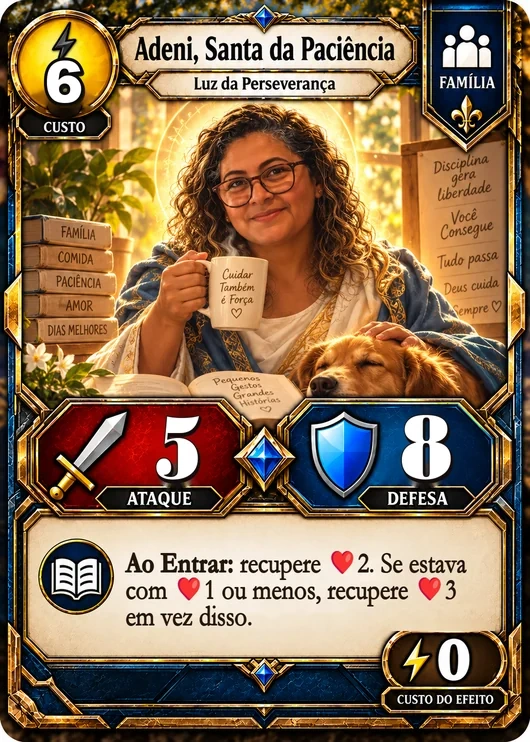
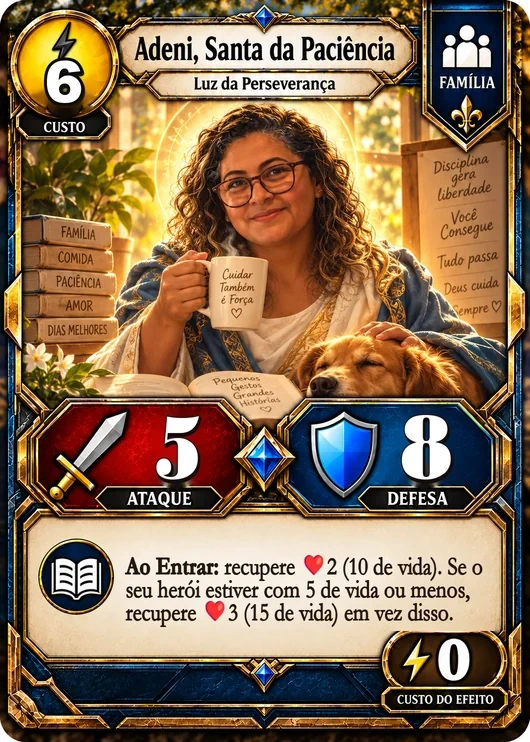
v94: teto de energia 20 e bonus de energia para o 2o jogador, Defensor -1 de dano, Adeni Santa

Changed region(s): [[0.2415, 0.7439, 0.9057, 0.8679]]

diff --git a/js/ui.js b/js/ui.js
@@ -443,13 +443,13 @@
       const f = Math.max(0, Math.min(1, (pl.life - i * K) / K));
       return `<i><s>❤</s><b style="width:${Math.round(f * 100)}%">❤</b></i>`;
     }).join('') + `<em class="lifenum">${pl.life}</em>`;
-    const nrg = Array.from({ length: G.ENERGY_MAX }, (_, i) => `<i class="${i < pl.energy ? 'on' : i < pl.maxE ? 'spent' : 'lock'}"></i>`).join('') + `<b>${pl.energy}/${Math.max(pl.maxE, pl.energy)}</b>`;
+    const nrg = Array.from({ length: Math.min(G.ENERGY_MAX, Math.max(10, pl.maxE, pl.energy)) }, (_, i) => `<i class="${i < pl.energy ? 'on' : i < pl.maxE ? 'spent' : 'lock'}"></i>`).join('') + `<b>${pl.energy}/${Math.max(pl.maxE, pl.energy)}</b>`;
     const avatar = (ctl.avatars && ctl.avatars[p]) || 'p01';
     const html = `<div class="plate ${turn ? 'turn' : ''}" data-plate="${p}">
       <div class="avatar" style="${avatarStyle(avatar)}"></div>
       <div class="pname">${esc(pl.name)}${p === me ? '<em>(você)</em>' : ''}</div>
       <div class="hearts" title="Vida">${hearts}</div>
-      <div class="energy" title="Energia: o máximo sobe 1 por turno (até ${G.ENERGY_MAX}) e recarrega todo turno">${nrg}</div>
+      <div class="energy" title="Energia: o máximo sobe 1 por turno (até ${G.ENERGY_MAX}) e recarrega todo turno. Quem joga em 2º tem ⚡+1 nos ${G.RULES.secondEnergyTurns} primeiros turnos.">${nrg}</div>
       <div class="meta"><span title="Cartas na mão">🂠 ${pl.hand.length}</span><span title="Descarte">🗑 ${pl.discard.length}</span></div>
     </div>`;
     const compactHtml = `<div class="plate ${turn ? 'turn' : ''}" data-plate="${p}">
@@ -1204,10 +1204,10 @@
     const m = UI.modal(`<h3>Regras rápidas</h3><div class="rules-doc">
       <h4>Objetivo</h4><p>Reduza a vida do adversário de <b>25 para 0</b>. (Nas cartas, 1 ❤ = 5 pontos de vida: "recupere ❤1" cura 5.)</p>
       <h4>Início</h4><p>Cada jogador começa com 25 de vida, 4 Personagens e 2 Suportes na mão (ninguém escolhe nem devolve cartas), todos baratos: custo até ⚡3. A partida começa sem Evento. Quem começa não compra no primeiro turno. No <b>primeiro turno de cada jogador só existe ⚡1</b> e nenhum efeito dá energia extra. Todo mundo começa com <b>pelo menos 2 Personagens de custo ⚡1</b> para jogar no primeiro turno. <b>As cartas vêm embaralhadas, mas só chegam cartas de até ⚡2 acima da sua energia:</b> cada carta comprada é a primeira do baralho cujo custo é no máximo a sua energia do turno + 2 (na mão inicial: até ⚡3). As caras só chegam quando você já está perto de poder jogá-las.</p>
-      <h4>Energia ⚡</h4><p>No 1º turno você tem <b>⚡1</b>, no 2º <b>⚡2</b>, e assim por diante até <b>⚡10</b>. A energia <b>enche de novo todo turno</b>; o que sobrar se perde. Gastando energia você joga <b>quantas cartas quiser</b>. Energia extra de efeitos vale só no turno e nunca passa de 10.</p>
+      <h4>Energia ⚡</h4><p>No 1º turno você tem <b>⚡1</b>, no 2º <b>⚡2</b>, e assim por diante até <b>⚡20</b>. A energia <b>enche de novo todo turno</b>; o que sobrar se perde. Gastando energia você joga <b>quantas cartas quiser</b>. Energia extra de efeitos vale só no turno e nunca passa de 20. <b>Quem joga em 2º tem ⚡+1 nos 5 primeiros turnos</b> dele (⚡2, ⚡3, ⚡4, ⚡5 e ⚡6), para compensar a vantagem de começar.</p>
       <h4>Campo</h4><table><tr><th>Zona</th><th>Limite</th><th>Função</th></tr>
       <tr><td>⚔ Ataque</td><td>3</td><td>Podem atacar (a partir do turno seguinte ao que entraram, exceto Ligeiros).</td></tr>
-      <tr><td>🛡 Defesa</td><td>3</td><td>Protegem a sua vida: enquanto existir um Defensor, o herói não pode ser atacado.</td></tr>
+      <tr><td>🛡 Defesa</td><td>3</td><td>Protegem a sua vida: enquanto existir um Defensor, o herói não pode ser atacado. <b>Todo Defensor sofre 1 de dano a menos</b> em cada ataque (mínimo 1).</td></tr>
       <tr><td>🤝 Apoio</td><td>2</td><td>Não atacam nem defendem. Só podem ser atacados quando o adversário não tem Defensores. Ativam efeitos 🤝.</td></tr>
       <tr><td>🛠 Suportes</td><td>2</td><td>Suportes Permanentes ficam aqui.</td></tr></table>
       <h4>Posição: espaços fixos</h4><p>Cada zona tem espaços fixos (esquerda, meio e direita). Ao jogar um Personagem, toque no <b>espaço</b> onde ele vai ficar; ele não muda de lugar sozinho. Vários efeitos usam a posição: o <b>vizinho</b> (espaço ao lado, na mesma zona) e a <b>frente</b> (um Defensor está "atrás" do atacante do mesmo espaço). <b>Mover</b> (⚡1) leva um Personagem a outro espaço livre, e <b>Trocar de lugar</b> (⚡2, uma vez por turno) troca dois Personagens seus de lugar. Quem foi movido ou trocado não ataca naquele turno.</p>
@@ -1218,7 +1218,7 @@
       <h4>Perks (Suportes Permanentes)</h4><p>Perks ocupam uma das 2 vagas 🛠, têm efeito passivo e <b>duram 3 turnos seus</b> (o ⏳ na carta mostra quantos faltam): <b>Torcida Organizada</b> (+1 de dano em todos os ataques), <b>Boleto Vencido</b> (+2 de dano no herói), <b>Fofoca do Churrasco</b> (compra 1 quando um Personagem seu cai), <b>Fiscal da Cerveja</b> (adversário perde ❤1 quando seu Personagem derrota outro), <b>Soneca Estratégica</b> (recupera ❤2 se ninguém atacou), <b>Bill</b> (compra extra), <b>Sofá</b> (Defensores sofrem 2 de dano a menos), <b>Cristal</b> (cada Personagem seu cura 2 de dano no início do seu turno) e <b>Jardim</b> (Personagens em Apoio ou Defesa curam 3 de dano no fim do seu turno).</p>
       <h4>Dicas de energia e custo</h4><p>As cartas custam de <b>⚡1 a ⚡10</b> (o número no selo dourado). Jogar cartas baratas cedo e guardar as fortes para depois é normal. Mover custa ⚡1, só vale uma vez por Personagem por turno, e <b>quem se moveu não ataca</b> naquele turno. Personagem recém-jogado também só ataca no turno seguinte. O dano que uma carta sofreu aparece em vermelho na defesa dela.</p>
       <h4>Atordoado</h4><p>Eventos (como o Sono Depois do Almoço) podem Atordoar: não ataca, não usa Ativável, não se move. Continua defendendo. Recupera no fim do próximo turno do dono.</p>
-      <h4>Limites</h4><p>Mão: 7 cartas · Energia: ⚡10 · Vida: 25 · Custo mínimo: ⚡1 · Descontos não se acumulam.</p>
+      <h4>Limites</h4><p>Mão: 7 cartas · Energia: até ⚡20 · Vida: 25 · Custo mínimo: ⚡1 · Descontos não se acumulam.</p>
       <h4>Eventos</h4><p>No máximo 1 Evento fica ativo e ele <b>troca sozinho a cada 3 rodadas</b> (o primeiro entra no fim da 3ª). Ninguém compra nem troca Eventos.</p>
       <h4>Série (melhor de 2 seguidas)</h4><p>Uma série é formada por várias partidas: <b>quem vencer 2 partidas seguidas leva a série</b>. A cada partida os lados trocam: quem começou agora joga em segundo, e vice-versa. Se cada um vencer uma, joga-se a próxima, até alguém vencer duas em sequência.</p>
       <h4>Cansaço</h4><p>Se a partida passar do <b>turno 80</b> (cerca de 40 rodadas), quem começa o turno perde <b>3 de vida</b> — assim nenhum empate dura para sempre.</p>

diff --git a/js/tutorial.js b/js/tutorial.js
@@ -58,7 +58,7 @@
         <li><b>JOGUE</b> o que quiser com a sua energia: Personagens, Suportes, mover (⚡1), habilidades Ativáveis e comprar Suporte (⚡1). <b>Sem limite de cartas</b>, só de energia!</li>
         <li><b>ATAQUE</b> com cada Personagem pronto.</li>
         <li><b>ENCERRE</b> o turno — ou <b>pule</b> se não tiver nada para jogar (o botão vira "Pular turno").</li></ol>
-        <p>⚡ <b>Energia que recarrega:</b> turno 1 = ⚡1, turno 2 = ⚡2... até ⚡10. Enche todo turno, e <b>o que sobrar se perde</b> — então vale gastar!</p>`,
+        <p>⚡ <b>Energia que recarrega:</b> turno 1 = ⚡1, turno 2 = ⚡2... até ⚡20. Enche todo turno, e <b>o que sobrar se perde</b> — então vale gastar! Quem joga em <b>2º</b> tem ⚡+1 nos 5 primeiros turnos.</p>`,
       vis: () => `<div class="flow"><div class="step"><span>⚡1</span><b>Turno 1</b>1 de energia</div><span class="arrow">⬇</span><div class="step"><span>⚡5</span><b>Turno 5</b>5 de energia</div><span class="arrow">⬇</span><div class="step"><span>⚡10</span><b>Turno 10+</b>sempre 10</div></div>`,
     },
     {
@@ -75,7 +75,7 @@
     {
       t: 'Combate: ataque e contra-ataque',
       body: `<p>O atacante causa o seu <b>⚔ Ataque</b> de dano. O alvo <b>contra-ataca</b> com o ⚔ dele, ao mesmo tempo.</p>
-        <p>O dano <b>fica na carta</b> até ser curado por um efeito (o 💔 mostra a vida atual). Cartas <b>Ligeiro</b> atacam assim que entram, só contra Personagens. A carta <b>cai</b> quando o dano chega à sua <b>🛡 Defesa</b>.</p>
+        <p>O dano <b>fica na carta</b> até ser curado por um efeito (o 💔 mostra a vida atual). Cartas <b>Ligeiro</b> atacam assim que entram (no turno em que entram, só contra Personagens). <b>Defensores sofrem 1 de dano a menos</b> em cada ataque. A carta <b>cai</b> quando o dano chega à sua <b>🛡 Defesa</b>.</p>
         <p>Um Personagem <b>recém-jogado não ataca</b> no mesmo turno (💤), e quem foi movido também não. Dá para <b>juntar ataques</b> para derrubar um alvo forte!</p>`,
       vis: () => `<div class="duel">
         <div class="duel-row"><span class="n" style="color:#9dffc6">⚔7 → 🛡5</span><span class="r">O alvo tem 5 de vida: <b>cai</b>.</span></div>
@@ -121,7 +121,7 @@
     },
     {
       t: 'Limites, Suportes e Eventos',
-      body: `<ul><li>Energia máxima: <b>⚡10</b>. Mão máxima: <b>7 cartas</b>. Nenhuma carta custa menos de ⚡1 e descontos <b>não se acumulam</b>.</li>
+      body: `<ul><li>Energia máxima: <b>⚡20</b>. Mão máxima: <b>7 cartas</b>. Nenhuma carta custa menos de ⚡1 e descontos <b>não se acumulam</b>.</li>
         <li><b>Suporte Imediato</b>: resolve e vai para o descarte. <b>Permanente</b>: fica numa das 2 vagas 🛠 (uso único = descarta quando usa).</li>
         <li>A cada 2 turnos seus você <b>compra 1 Suporte automaticamente</b>.</li>
         <li><b>Evento</b>: entra <b>sozinho a cada 3 rodadas</b> e muda as regras até o próximo. Ninguém compra nem troca Eventos.</li></ul>
@@ -189,7 +189,7 @@
       }
       if (v.phase === 'main') {
         tip('act', 'Seu turno: gaste a energia!', 'Toque numa carta da mão (as que brilham em verde cabem na sua energia ⚡) e depois numa zona verde. Você pode jogar <b>quantas cartas quiser</b>. Comece colocando alguém na <b>🛡 Defesa</b> para proteger sua vida!');
-        tip('nrg', 'A energia recarrega', 'Todo turno a energia enche até o máximo (que sobe 1 por turno, até ⚡10). O que sobrar <b>se perde</b>, então use tudo!');
+        tip('nrg', 'A energia recarrega', 'Todo turno a energia enche até o máximo (que sobe 1 por turno, até ⚡20). O que sobrar <b>se perde</b>, então use tudo!');
         if (pl.hand.some((c) => G.CARDS[c.id].type === 'sup')) tip('sup', 'Suportes', 'Suportes (verdes) também gastam energia. Os <b>Imediatos</b> fazem efeito na hora; os <b>Permanentes</b> ficam no campo, à direita.');
         if (legal.some((a) => a.t === 'attack')) {
           tip('atk', 'Hora de atacar!', 'Personagens seus <b>brilhando em laranja</b> podem atacar. Toque num deles e depois no alvo 🎯. O alvo contra-ataca com o ⚔ dele, e o dano fica na carta até ser curado.');

diff --git a/js/engine.js b/js/engine.js
@@ -9,7 +9,7 @@
   const ZI = { atk: '⚔', def: '🛡', apoio: '🤝' };
   G.ZN = ZN; G.ZI = ZI; G.LIM = LIM;
   // energia máxima (a energia sobe 1 por turno até este valor)
-  G.ENERGY_MAX = 10;
+  Object.defineProperty(G, 'ENERGY_MAX', { get: () => (G.RULES && G.RULES.energyMax) || 10 });
   // Regras ajustáveis (v4: energia que recarrega).
   G.RULES = {
     autoEvent: 3,        // o Evento troca sozinho a cada N rodadas completas (0 = desligado)
@@ -26,6 +26,11 @@
     heartPts: 5,         // 1 ❤ impresso nas cartas = 5 pontos de vida ("recupere ❤1" cura 5)
     moveCost: 1,         // mover um Personagem custa ⚡ (1x por Personagem por turno)
     buyCost: 1,
+    energyMax: 20,       // teto da energia por turno
+    secondEnergyTurns: 5, // quem joga em 2º tem ⚡+1 nos primeiros N turnos dele (equilibra a vantagem de começar)
+    secondEnergy: 0,     // (teste) energia extra de quem joga em 2º (ele começa com ⚡1+N e sobe 1 por turno)
+    secondLife: 0,       // (teste) pontos de vida extras de quem joga em 2º
+    defResist: 1,        // todo Defensor (🛡) sofre N de dano a menos em cada ataque (mínimo 1)
     swapCost: 2,         // trocar 2 Personagens seus de lugar custa ⚡ (1x por turno)
     cycleCost: 1,        // descartar 1 carta da mão e comprar 1 do mesmo tipo (1x por turno)          // comprar 1 Suporte custa ⚡
   };
@@ -119,7 +124,7 @@
     if (evKey(s) === 'discussao') { log(s, 'Discussão Generalizada: ninguém pode recuperar ❤.'); return 0; }
     const pl = s.players[p];
     const b = pl.life;
-    pl.life = Math.min(G.RULES.lifeStart, pl.life + n * G.RULES.heartPts);
+    pl.life = Math.min(pl.maxLife || G.RULES.lifeStart, pl.life + n * G.RULES.heartPts);
     const g = pl.life - b;
     if (g > 0) { fx(s, { t: 'heal', p, n: g }); const hh = g / G.RULES.heartPts; log(s, `${pn(s, p)} recuperou ${Number.isInteger(hh) ? '❤' + hh + ' (' + g + ' de vida)' : g + ' de vida'}.`, 'good'); }
     return g;
@@ -403,6 +408,7 @@
     s.evDeck = shuffle(s, G.EV_IDS.map(mk));
     s.first = o.first != null ? o.first : rnd(s) < 0.5 ? 0 : 1;
     s.active = s.first;
+    if (G.RULES.secondLife) { const q = s.players[opp(s.first)]; q.life += G.RULES.secondLife; q.maxLife = q.life; }
     log(s, `🎲 ${pn(s, s.first)} começa a partida.`);
     // mão inicial: 4 Personagens e 2 Suportes, todos baratos (custo até ⚡3) e com pelo menos 1 Personagem de ⚡1,
     // para que nenhuma carta inicial fique parada; ninguém escolhe nem devolve cartas
@@ -532,8 +538,9 @@
       log(s, `${pn(s, p)} jogou em 2º e comprou ${n === 1 ? 'uma carta' : n + ' cartas'} extra.`, 'good');
     }
     // energia: o máximo sobe 1 por turno (até 10) e a energia enche até o máximo; o que sobrou do turno anterior se perde
-    pl.maxE = Math.min(G.ENERGY_MAX, (pl.maxE || 0) + 1);
-    pl.energy = pl.maxE;
+    pl.maxE = Math.min(G.ENERGY_MAX, (pl.maxE || 0) + 1 + (pl.turns === 1 && p !== s.first ? (G.RULES.secondEnergy || 0) : 0));
+    pl.energy = pl.maxE + (p !== s.first && pl.turns <= (G.RULES.secondEnergyTurns || 0) ? 1 : 0);
+    if (p !== s.first && pl.turns === 1 && G.RULES.secondEnergyTurns) log(s, `⚡ ${pn(s, p)} joga em 2º: tem ⚡+1 de energia nos ${G.RULES.secondEnergyTurns} primeiros turnos.`, 'good');
     fx(s, { t: 'energy', p, n: pl.energy });
     if (pl.pendingCoin) { gainE(s, p, pl.pendingCoin); log(s, `${pn(s, p)} jogou em 2º e ganhou ⚡+${pl.pendingCoin} neste turno.`, 'good'); pl.pendingCoin = 0; }
     if (pl.turns === 1 && p !== s.first && G.RULES.secondBonus === 'coin') { gainE(s, p, 1); log(s, `${pn(s, p)} jogou em 2º e ganhou uma moeda: ⚡+1 neste turno.`, 'good'); }
@@ -1154,6 +1161,7 @@
     const f = D(T).fx;
     let r = 0;
     if (O.def.includes(T) && hasPerm(s, o, 'sofa')) r += 2;
+    if (O.def.includes(T)) r += G.RULES.defResist || 0;
     if (f === 'resist1') r += 1;
     if (f === 'resist2') r += 2;
     const z = O.atk.includes(T) ? 'atk' : O.def.includes(T) ? 'def' : O.apoio.includes(T) ? 'apoio' : null;

diff --git a/js/cards.js b/js/cards.js
@@ -56,7 +56,7 @@
     [49, 'Adeni', 'a Tranquila', 1, 2, 4, 'b', 'cureRight1', 'No início do seu turno, cure 1 de dano do Personagem à sua direita.'],
     [50, 'Adeni', 'Fada da Calmaria', 5, 5, 6, 'm', 'apoioCureDef2', '🤝 Apoio: no início do seu turno, cure 2 de dano de cada Defensor seu.'],
     [51, 'Adeni', 'Dama da Paz', 3, 4, 5, 'e', 'regenAll', 'No início do seu turno, Adeni cura todo o dano.'],
-    [52, 'Adeni', 'Santa da Paciência', 6, 5, 8, 'l', 'adeniSanta', 'Ao Entrar: recupere ❤2. Se estava com ❤1 ou menos, recupere ❤3 em vez disso.'],
+    [52, 'Adeni', 'Santa da Paciência', 6, 5, 8, 'l', 'adeniSanta', 'Ao Entrar: recupere ❤2 (10 de vida). Se o seu herói estiver com 5 de vida ou menos, recupere ❤3 (15 de vida) em vez disso.'],
     [53, 'Fred', 'o Observador', 1, 2, 5, 'b', 'frontResist', 'Em 🛡: o Personagem em ⚔ à sua frente tem Resistente 1 (sofre 1 de dano a menos em cada ataque).'],
     [54, 'Fred', 'Analista da Família', 5, 4, 6, 'e', 'actDraw', 'Ativável - ⚡1: compre 1 Personagem, respeitando o limite da mão.', 1],
     [55, 'Fred', 'Oráculo dos Detalhes', 7, 6, 7, 'm', 'fredOraculo', 'Ao Entrar: compre 2 Personagens, respeitando o limite da mão.'],
@@ -143,7 +143,7 @@
   P.forEach(([n, name, title, cost, atk, def, rar, fx, text, ecost, fla]) => {
     CARDS['p' + pad(n)] = {
       id: 'p' + pad(n), type: 'char', name, title, cost, atk, def, rarity: rar, rarityName: RAR[rar],
-      fx, text, ecost: ecost || 0, flamengo: !!fla, updated: UPD.has(n), img: abs('assets/cards/personagens/' + pad(n) + '.webp?v=91'),
+      fx, text, ecost: ecost || 0, flamengo: !!fla, updated: UPD.has(n), img: abs('assets/cards/personagens/' + pad(n) + '.webp?v=94'),
       activatable: /^act/.test(fx),
     };
   });
@@ -153,13 +153,13 @@
     CARDS['s' + pad(n)] = {
       dur: DUR[fx] || 0,
       id: 's' + pad(n), type: 'sup', name, title: kind === 'imm' ? 'Imediato' : kind === 'perm' ? (DUR[fx] ? 'Perk' : 'Permanente') : 'Permanente - uso único',
-      cost, kind, fx, text, img: abs('assets/cards/suportes/' + pad(n) + '.webp?v=91'),
+      cost, kind, fx, text, img: abs('assets/cards/suportes/' + pad(n) + '.webp?v=94'),
     };
   });
   E.forEach(([n, name, kind, fx, text]) => {
     CARDS['e' + pad(n)] = {
       id: 'e' + pad(n), type: 'ev', name, title: kind === 'imm' ? 'Evento Imediato' : 'Evento Contínuo',
-      kind, fx, text, img: abs('assets/cards/eventos/' + pad(n) + '.webp?v=91'),
+      kind, fx, text, img: abs('assets/cards/eventos/' + pad(n) + '.webp?v=94'),
     };
   });
 

diff --git a/index.html b/index.html
@@ -10,7 +10,7 @@
   <link rel="preconnect" href="https://fonts.googleapis.com">
   <link rel="preconnect" href="https://fonts.gstatic.com" crossorigin>
   <link href="https://fonts.googleapis.com/css2?family=Cinzel+Decorative:wght@700;900&family=Cinzel:wght@600;700;800&family=Nunito:wght@400;600;700;800&display=swap" rel="stylesheet">
-  <link rel="stylesheet" href="css/style.css?v=91">
+  <link rel="stylesheet" href="css/style.css?v=94">
 </head>
 <body>
   <canvas id="sparks"></canvas>
@@ -167,17 +167,17 @@
   <div id="preview" class="preview"></div>
 
   <script src="js/vendor/peerjs.min.js"></script>
-  <script src="js/cards.js?v=91"></script>
-  <script src="js/engine.js?v=91"></script>
-  <script src="js/ai.js?v=91"></script>
-  <script src="js/audioout.js?v=91"></script>
-  <script src="js/sfx.js?v=91"></script>
-  <script src="js/music.js?v=91"></script>
-  <script src="js/memes.js?v=91"></script>
-  <script src="js/voice.js?v=91"></script>
-  <script src="js/ui.js?v=91"></script>
-  <script src="js/net.js?v=91"></script>
-  <script src="js/tutorial.js?v=91"></script>
-  <script src="js/main.js?v=91"></script>
+  <script src="js/cards.js?v=94"></script>
+  <script src="js/engine.js?v=94"></script>
+  <script src="js/ai.js?v=94"></script>
+  <script src="js/audioout.js?v=94"></script>
+  <script src="js/sfx.js?v=94"></script>
+  <script src="js/music.js?v=94"></script>
+  <script src="js/memes.js?v=94"></script>
+  <script src="js/voice.js?v=94"></script>
+  <script src="js/ui.js?v=94"></script>
+  <script src="js/net.js?v=94"></script>
+  <script src="js/tutorial.js?v=94"></script>
+  <script src="js/main.js?v=94"></script>
 </body>
 </html>
